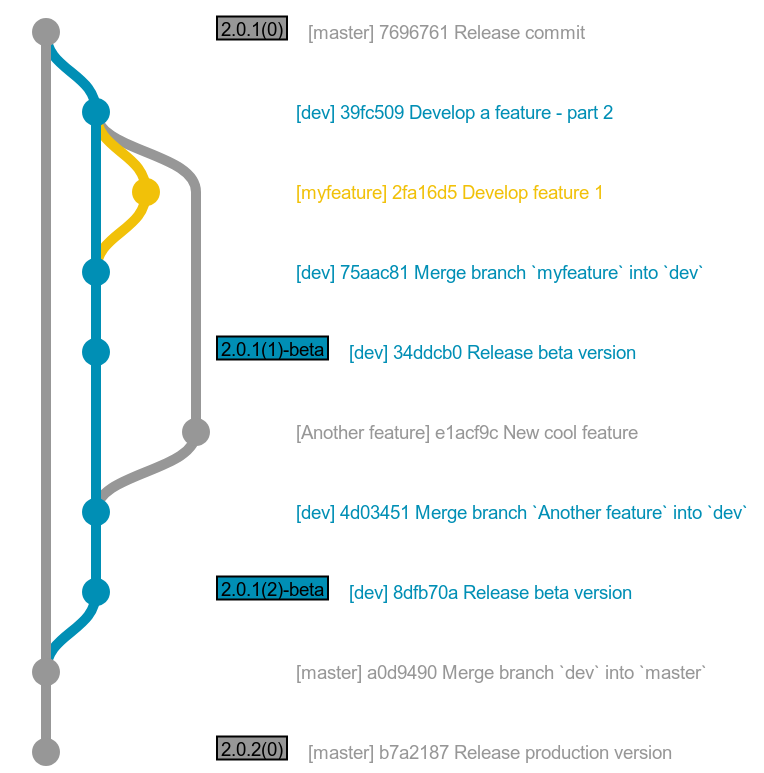
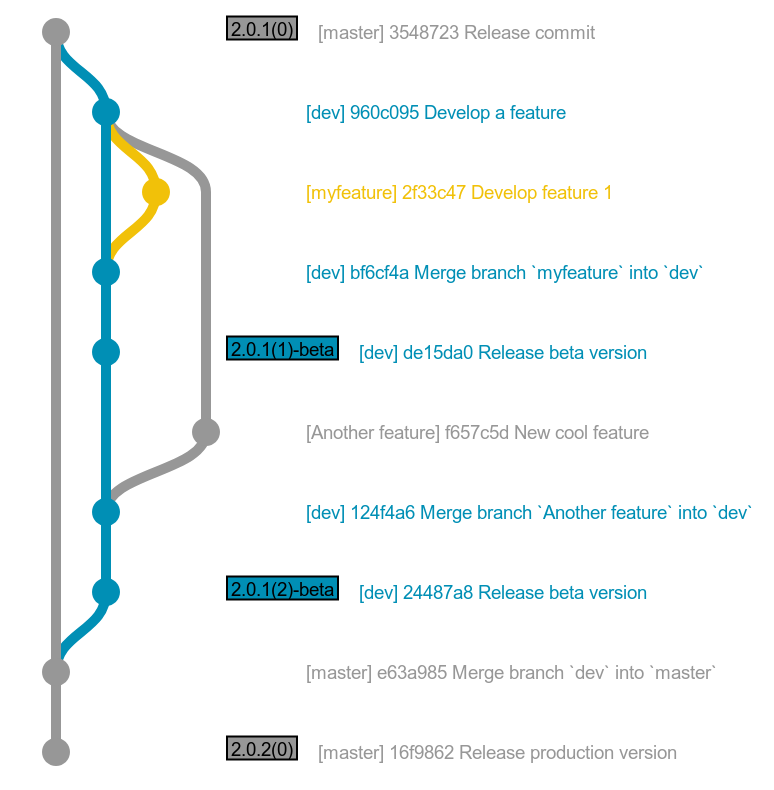
Update doc graphics as per @jhenshall's comments

diff --git a/docs/workflow.md b/docs/workflow.md
@@ -40,4 +40,4 @@ This numbering logic should make it clear which version is the latest, both in `
 Below is an example of workflow in git (simplified for the docs):
 ![Git workflow example](git_workflow_example.png)
 
-Source for the graph: http://jsfiddle.net/w5ugatmq/
+Source for the graph: http://jsfiddle.net/w5ugatmq/2/
